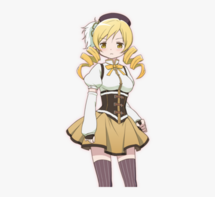
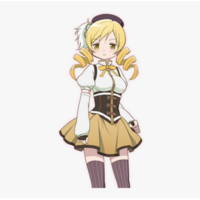
Added better art.

Changed region(s): [[0.27, 0.0609, 0.72, 0.9746]]

diff --git a/j/j/j.java b/j/j/j.java
@@ -36,13 +36,23 @@ class myButton extends Button {
 		else
 			System.out.println("Slot taken.");
 		j.yourTurn = false;
+		/*
+		try {
+			j.out.writeInt(j.b);
+		} catch (IOException e) {
+			System.out.println("Failed to send.");
+		}
+		*/
 	}
 }
 public class j extends Application {
+	static DataOutputStream out;
 	static boolean yourTurn = true;
 	static int b=0; // The state of the board. 
 	public myButton imgButton(String in, int i){
 		ImageView image = new ImageView(in); // Move this within class? 
+		 image.setPreserveRatio(true);
+		 image.setFitHeight(200);
 		myButton bt = new myButton("",image,i);
 		bt.setOnAction(e -> bt.onClick());
 		return bt;
@@ -75,6 +85,7 @@ public class j extends Application {
 			myButtons[i] = imgButton("blank.png",i);
 			pane.add(myButtons[i],i%3,i/3);
 		}
+		 primaryStage.setTitle("j.java");
 		primaryStage.setScene(new Scene(pane));
 		System.out.println("Executing show.");
 		primaryStage.show();
@@ -86,13 +97,13 @@ public class j extends Application {
 				System.out.println("Hallo, moto!");
 				int port = 8000;
 				DataInputStream in;
-				DataOutputStream out;
+				//;DataOutputStream out;
 				ServerSocket server;
 				Socket socket;
 				server = new ServerSocket(port);
 				socket = server.accept();
 				in = new DataInputStream(socket.getInputStream());
-				out = new DataOutputStream(socket.getOutputStream());
+				;out = new DataOutputStream(socket.getOutputStream());
 				while (true)
 				{
 					int tmp = in.readInt();

diff --git a/j/j/c.java b/j/j/c.java
@@ -45,6 +45,8 @@ public class c extends Application {
 	static int b=0; // The state of the board. 
 	public myButton imgButton(String in, int i){
 		ImageView image = new ImageView(in); // Move this within class? 
+		 image.setPreserveRatio(true);
+		 image.setFitHeight(200);
 		myButton bt = new myButton("",image,i);
 		bt.setOnAction(e -> bt.onClick());
 		return bt;
@@ -77,6 +79,7 @@ public class c extends Application {
 			myButtons[i] = imgButton("blank.png",i);
 			pane.add(myButtons[i],i%3,i/3);
 		}
+		 primaryStage.setTitle("c.java");
 		primaryStage.setScene(new Scene(pane));
 		System.out.println("Executing show.");
 		primaryStage.show();

diff --git a/j/j/s.java b/j/j/s.java
@@ -1,0 +1,18 @@
+public class s {
+	public static void main(String[] args){
+		new Thread(){
+			@Override
+			public void run(){
+				String[] noArguments = new String[0];
+				j.main(noArguments);
+			}
+		}.start();
+		new Thread(){
+			@Override
+			public void run(){
+				String[] noArguments = new String[0];
+				c.main(noArguments);
+			}
+		}.start();
+	}
+}
